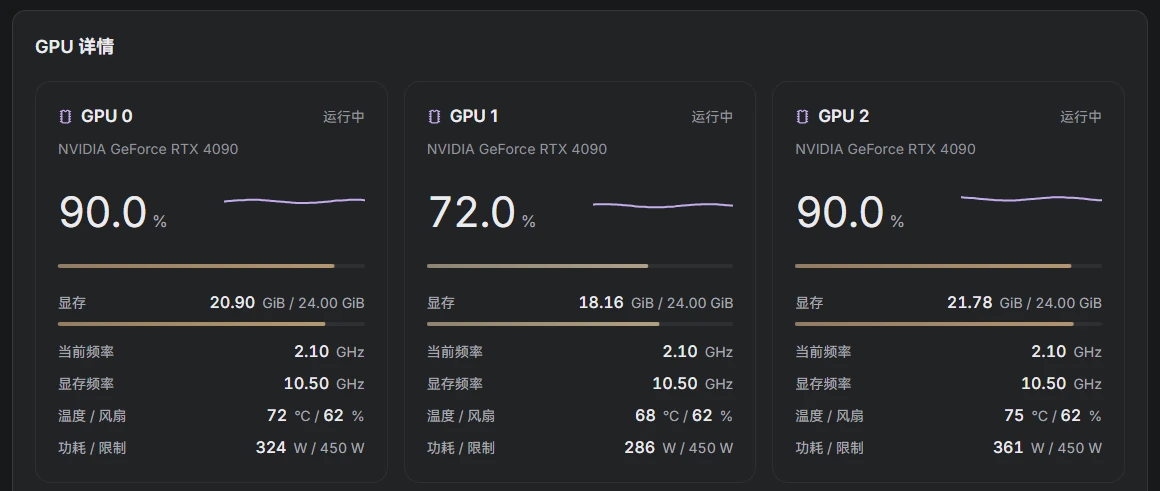
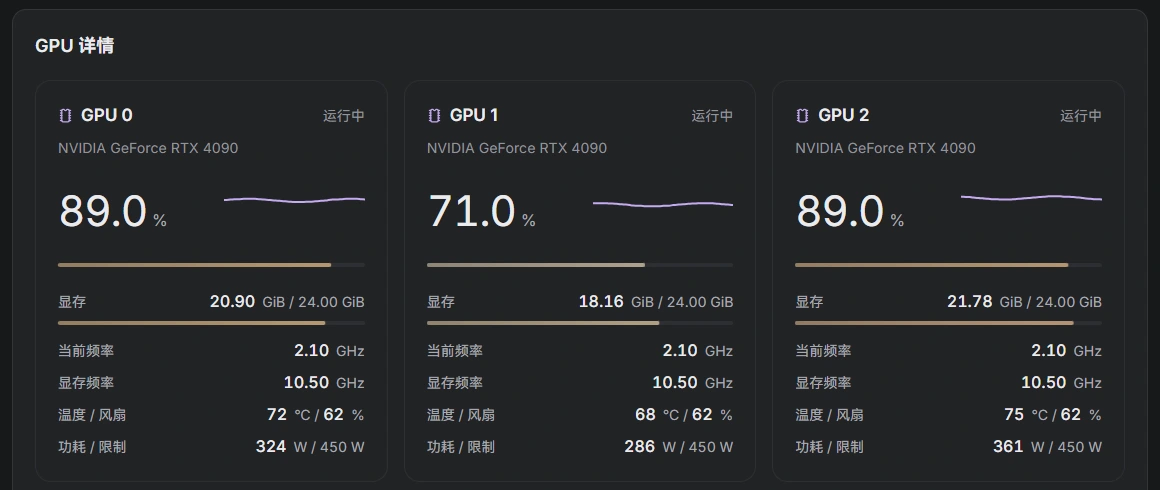
Show AsterHub features with screenshots

diff --git a/README.md b/README.md
@@ -25,25 +25,47 @@
 
 ## 主要功能
 
-- **随时看负载。** 任务栏可显示 CPU、GPU、内存和网速，支持自选指标、顺序和颜色。
+以下界面使用示例设备和数据。点击截图可查看原尺寸。
 
-- **回查性能峰值。** 选一段时间，对照 CPU、GPU、内存曲线和已记录的进程占用。网络页也能分析区间流量或单独测速。
+### 排查资源峰值
 
-- **比较多张显卡。** 逐卡看利用率和显存，或汇总多卡趋势。
-
-- **找出空间占用。** 扫描磁盘或文件夹，逐层查看目录大小、定位大文件。移入回收区的项目可以恢复。
-
-- **排查远端设备。** 通过 SSH 看服务器运行状态、打开终端、浏览和传输文件。下载、传输和扫描进度集中在任务中心。
-
-<details>
-<summary><strong>展开多卡 GPU 界面</strong></summary>
+发现负载异常后，选定时间区间，对照 CPU 曲线和当时记录的进程占用。GPU、内存和网络也有各自的分析页，可分别回查显存、内存和流量变化。
 
 <p align="center">
-  <a href="docs/screenshots/multi-gpu.webp"><img src="docs/screenshots/multi-gpu.webp" width="760" alt="多卡 GPU 页面：逐卡对照利用率与显存"></a><br>
-  <sub>多卡监测页面局部 · 示例数据；可见的指标取决于设备、驱动与访问权限。</sub>
+  <a href="docs/screenshots/cpu-analysis.webp"><img src="docs/screenshots/cpu-analysis.webp" width="760" alt="CPU 占用分析：左侧为带时间区间和峰值的趋势图，右侧为所选时刻的进程占用"></a>
 </p>
 
-</details>
+### 对比多张显卡
+
+同屏查看每张卡的利用率和显存，找出哪张卡最忙、哪张还有余量。温度和功耗等指标视设备和驱动支持而定。
+
+<p align="center">
+  <a href="docs/screenshots/multi-gpu.webp"><img src="docs/screenshots/multi-gpu.webp" width="760" alt="多卡 GPU 页面：并排对照三张显卡的利用率、显存、温度与功耗"></a>
+</p>
+
+### 定位磁盘空间占用
+
+扫描磁盘或文件夹，按面积看各目录占了多少空间。点击目录逐层查看，也可以切到大文件清理，直接定位占空间的文件。
+
+<p align="center">
+  <a href="docs/screenshots/storage-analysis.webp"><img src="docs/screenshots/storage-analysis.webp" width="760" alt="磁盘空间分析：左侧是目录树，右侧按面积显示各文件夹的占用"></a>
+</p>
+
+### 管理远端设备和文件
+
+连上服务器后，可以打开 SSH 终端执行命令，也可以在双栏文件页里并排浏览本机和远端目录，拖拽文件进行复制。
+
+<p align="center">
+  <a href="docs/screenshots/file-transfer.webp"><img src="docs/screenshots/file-transfer.webp" width="760" alt="双栏文件传输：左侧为本机目录，右侧为远端 SFTP 目录"></a>
+</p>
+
+### 日常监测与任务
+
+- **任务栏监测**：把 CPU、GPU、内存或网速放在任务栏，按自己的习惯调整指标、顺序和颜色。
+
+- **网络测速**：随时测一次连接速度，也可以到流量分析查看指定时段的上传和下载。
+
+- **任务中心**：集中查看更新下载、文件传输和磁盘扫描的进度与结果。
 
 ## 下载安装
 
